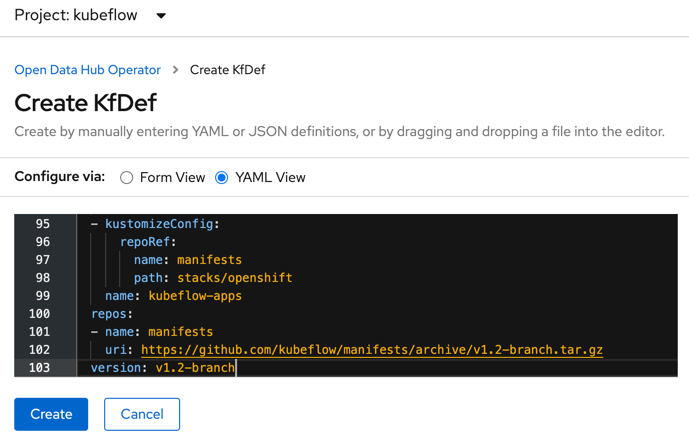
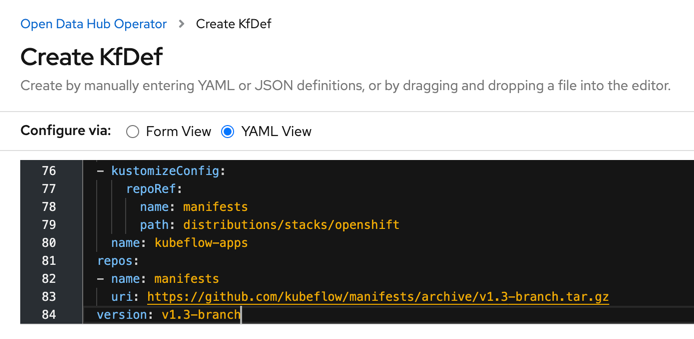
Add ODH/Kubeflow 1.3 deployment instructions

diff --git a/docs/source/recipes/deploying-elyra-with-opendatahub.md b/docs/source/recipes/deploying-elyra-with-opendatahub.md
@@ -18,22 +18,21 @@ limitations under the License.
 
 # Deploying Open Data Hub with Elyra
 
-This document outlines how to perform a quick deployment of [JupyterHub](https://jupyter.org/hub) and [Elyra](https://github.com/elyra-ai/elyra) on [Open Data Hub (ODH)](https://opendatahub.io/) using the Open Data Hub Operator.
+This document outlines how to perform a quick deployment of [Kubeflow](https://kubeflow.org), [JupyterHub](https://jupyter.org/hub) and [Elyra](https://github.com/elyra-ai/elyra) on [Open Data Hub (ODH)](https://opendatahub.io/) using the Open Data Hub Operator.
 
 Note the following:
 - The instructions in this document utilize default configurations, which are unlikely to meet the requirements of a production deployment.
-- By completing the steps in this document JupyterHub v1.4 and Elyra v2.2.4 are deployed in the `kubeflow` project/namespace.
+- By completing the steps in this document Kubeflow 1.3, JupyterHub v1.4, and Elyra v2.2.4 are deployed in the `kubeflow` project/namespace.
+- The Kubeflow Central dashboard is unsecured.
 - The JupyterHub GUI is secured by OpenShift. 
  
 ## Requirements
 
 Verify that the following requirements are met.
 
-- You have some hands-on experience with Red Hat OpenShift.
-- You have access to a v4.x Red Hat OpenShift Cluster with internet connectivity. 
+- Access to a v4.x Red Hat OpenShift Cluster (16 GB RAM, 6 CPUs, and 45G of disk space) with internet connectivity. 
 - The OpenShift CLI (`oc`) is installed locally. 
     - [Installation instructions](https://docs.openshift.com/container-platform/4.7/cli_reference/openshift_cli/getting-started-cli.html) for  Windows and MacOS    
-- [Kubeflow v1.3 is deployed](https://www.kubeflow.org/docs/distributions/openshift/) in the `kubeflow` project/namespace if you are planning on running pipelines on Kubeflow Pipelines.
 
 ## Prepare for deployment
 
@@ -46,7 +45,7 @@ Verify that the following requirements are met.
    $ oc login --token=TOKEN_VAL --server=https://SERVER:PORT
    ```
 
-1. If Kubeflow is not yet deployed in this cluster, create a new project named `kubeflow`. 
+1. Create a new project named `kubeflow`. 
    ```
    $ oc new-project kubeflow
    ```
@@ -75,9 +74,6 @@ To install the operator:
 1. Install the operator, keeping the default values.
 1. Navigate to `Operators` > `Installed Operators` and wait for the operator installation to complete. 
 
-<!--
-{% comment %}
-
 Next, you'll install Kubeflow using the operator.
 
 ## Deploy Kubeflow on OpenShift
@@ -90,7 +86,7 @@ To deploy Kubeflow using the Open Data Hub operator:
 1. Create a new deployment by clicking `Create instance`.
 1. Select `Configure via YAML view`.
 1. Remove the default deployment configuration in the editor.
-1. Open [this Kubeflow v1.2 deployment file for OpenShift](https://raw.githubusercontent.com/kubeflow/manifests/master/distributions/kfdef/kfctl_openshift.v1.2.0.yaml) in a new browser tab/window.
+1. Open [this Kubeflow v1.3 deployment file for OpenShift](https://raw.githubusercontent.com/kubeflow/manifests/master/distributions/kfdef/kfctl_openshift_v1.3.0.yaml) in a new browser tab/window.
 1. Copy and paste the content of this file into the editor.
    ![Deploy Kubeflow using ODH operator](../images/recipes/deploying-elyra-with-opendatahub/deploy-kubeflow-kfdef.png)
 1. Click `Create` to deploy Kubeflow on the cluster.
@@ -98,20 +94,13 @@ To deploy Kubeflow using the Open Data Hub operator:
    ```
    $ oc get pods --namespace kubeflow
    ```
-
    Upon successful deployment you can access the Kubeflow Central dashboard using a public route.
 1. In the terminal window run the following command to retrieve the public Kubeflow Central dashboard URL:
    ```
-   $ oc get routes -n istio-system istio-ingressgateway -o jsonpath='http://{.spec.host}/'
+   $ oc get routes -n istio-system istio-ingressgateway -o jsonpath='http://{.spec.host}'
    ```
 1. Open the displayed URL in a web browser to access the Kubeflow Central dashboard.
-1. Select the `anonymousami` namespace entry. 
-
-   ![Select namespace in Kubeflow Central Dashboard](../images/recipes/deploying-elyra-with-opendatahub/select-kf-namespace.png)
-
-1. Take note of the following information. You'll need it later when you create a runtime configuration in Elyra, so that you can run pipelines in this Kubeflow deployment.
-   - The Kubeflow Central dashboard URL (`http://istio-ingressgateway-istio-system...`).
-   - The user namespace (`anonymousami`).
+1. Do not select a namespace entry, if you've deployed Kubeflow using the defaults.
 
 The Kubeflow deployment is complete. As part of this deployment an instance of the MinIO object storage was provisioned. 
 
@@ -146,9 +135,6 @@ To make the GUI available:
    - The MinIO GUI URL (`http://minio-service-kubeflow...`).
    - The MinIO access key (`minio`).
    - The MinIO secret key (`minio123`).
-
-{% endcomment %}
--->
 
 Next, you'll install JupyterHub with Elyra support.
 
@@ -212,6 +198,8 @@ To deploy JupyterHub and its dependencies:
 
 1. Click `Create` and wait for the deployment to complete.
 
+   ![Deployment completed](../images/recipes/deploying-elyra-with-opendatahub/kf-and-odh-deployments-complete.png)
+
 Next, you'll use the JupyterHub spawner to launch Elyra.
 
 ## Access Elyra using the JupyterHub Spawner page
@@ -256,26 +244,21 @@ To create a runtime configuration that allows for running of pipelines on the Ku
 
 1. Click `+` and `New Kubeflow Pipelines runtime`.
 
-1. Enter the Kubeflow and MinIO configuration information:
+1. Enter the following Kubeflow and MinIO configuration information, assuming you've performed a Kubeflow quick install using the linked manifest:
    - Name: `Local Kubeflow Pipelines`
    - Kubeflow Pipelines API Endpoint: the output from command 
      ```
      $ oc get routes -n istio-system istio-ingressgateway -o jsonpath='http://{.spec.host}/pipeline'
      ```
-   - Kubeflow Pipelines User Namespace: the assigned namespace if accessing a multi-user Kubeflow deployment
-   - Kubeflow Pipelines API Endpoint Username: if applicable, id of a user who is authorized to access the Kubeflow deployment
-   - Kubeflow Pipelines API  Endpoint Password: if applicable, password of the specified user 
-   - Kubeflow Pipelines Engine: `Argo` or `Tekton`, as configured
+   - Kubeflow Pipelines User Namespace: leave empty, if Kubeflow deployment defaults were used
+   - Kubeflow Pipelines API Endpoint Username: leave empty, if Kubeflow deployment defaults were used
+   - Kubeflow Pipelines API  Endpoint Password: leave empty, if Kubeflow deployment defaults were used
+   - Kubeflow Pipelines Engine: `Tekton`, if Kubeflow deployment defaults were used
    - Cloud Object Storage Endpoint: the output from command 
      ```
      $ oc get routes -n kubeflow minio-service -o jsonpath='https://{.spec.host}'
      ```
 
-      Note: If no public endpoint is defined for the MinIO service that was deployed as part of Kubeflow, run the following command first to expose the service.
- 
-      ```
-      $ oc create route edge --service=minio-service --namespace=kubeflow --port=9000 --insecure-policy=Redirect
-      ```
    - Cloud Object Storage Credentials Secret: leave empty
    - Cloud Object Storage Username: `minio` if Kubeflow deployment defaults were used, otherwise the appropriate id
    - Cloud Object Storage Password: `minio123` if Kubeflow deployment defaults were used, otherwise the appropriate password
